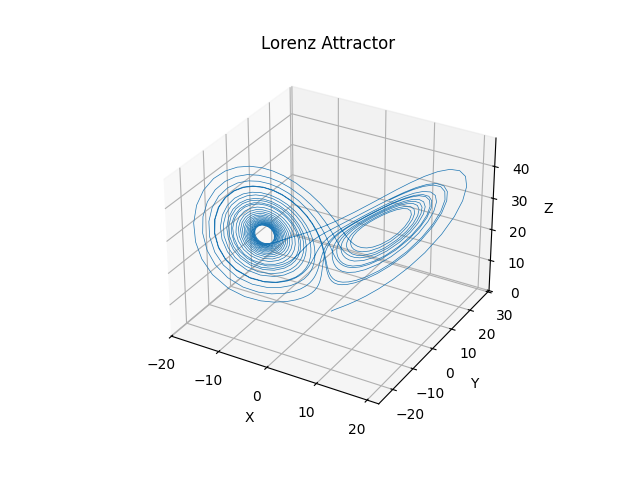
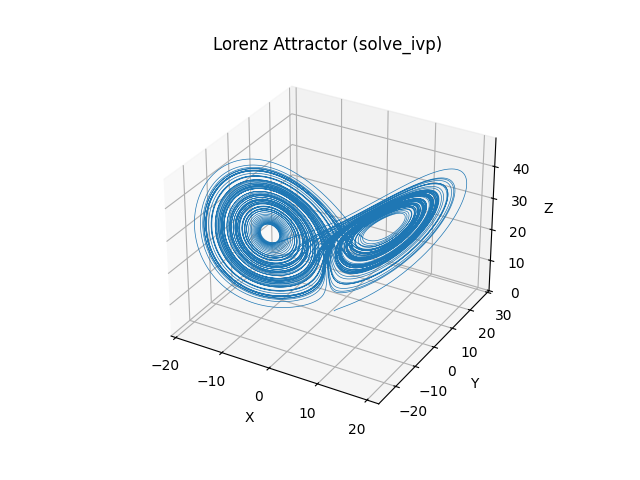
gone

diff --git a/lorenz.py b/lorenz.py
@@ -1,5 +1,6 @@
 import numpy as np
-from scipy.integrate import RK45
+from scipy.integrate import solve_ivp
+import matplotlib.pyplot as plt
 
 
 class LorenzParameters:
@@ -10,69 +11,45 @@ class LorenzParameters:
 
 
 class LorenzSystem:
-    def __init__(self, initial_state, params, dt=0.01):
+    def __init__(self, initial_state, params, dt=0.001):
         self.params = params
         self.initial_state = initial_state
         self.dt = dt
-        self.current_state = self.initial_state.copy()
-        self.current_time = 0.0
         self.state_history = []
-        self._setup_integrator()
 
-    def lorenz_equations(self, t, state, params):
+    def lorenz_equations(self, t, state):
         x, y, z = state
-        dx = params.sigma * (y - x)
-        dy = x * (params.rho - z) - y
-        dz = x * y - params.beta * z
-        return np.array([dx, dy, dz])
+        dx = self.params.sigma * (y - x)
+        dy = x * (self.params.rho - z) - y
+        dz = x * y - self.params.beta * z
+        return [dx, dy, dz]
 
-    def _setup_integrator(self):
-        self.integrator = RK45(
-            lambda t, y: self.lorenz_equations(t, y, self.params),
-            self.current_time,
-            self.current_state,
-            t_bound=float("inf"),
-            rtol=1e-6,
-            atol=1e-6,
+    def run_steps(self, t, steps):
+        t_span = (t, t + self.dt * steps)
+        t_eval = np.linspace(*t_span, steps)
+
+        solution = solve_ivp(
+            fun=self.lorenz_equations,
+            t_span=t_span,
+            y0=self.initial_state,
+            t_eval=t_eval,
+            method="RK45",
+            rtol=1e-8,
+            atol=1e-8,
         )
-
-    def step(self):
-        target_time = self.current_time + self.dt
-        while self.integrator.t < target_time:
-            self.integrator.step()
-        self.current_state = self.integrator.y
-        self.current_time = self.integrator.t
-        self.state_history.append(self.current_state.copy())
-        return self.current_state
-
-    def run_steps(self, steps):
-        self.state_history = []
-        for _ in range(steps):
-            self.step()
-        return np.array(self.state_history)
+        self.state_history = solution.y.T
+        return self.state_history
 
     def reset(self):
-        self.current_state = self.initial_state.copy()
-        self.current_time = 0.0
         self.state_history = []
-        self._setup_integrator()
 
 
-# def encrypt_message(message, key_state):
-#     key_bytes = np.abs(np.sin(key_state * 1000)).astype(np.uint8)
-#     key_bytes = np.tile(key_bytes, (len(message) // len(key_bytes)) + 1)[:len(message)]
-#     message_bytes = message.encode('utf-8') if isinstance(message, str) else message
-#     return bytearray([message_bytes[i] ^ key_bytes[i % len(key_bytes)] for i in range(len(message_bytes))])
-
-
-# p = LorenzParameters(sigma=10, rho=28, beta=8/3)
-# a = LorenzSystem(initial_state=np.array([1.0, 1.0, 1.0]), params=p, dt=0.01)
-
-
-# import matplotlib.pyplot as plt
+# # Example usage:
+# p = LorenzParameters(sigma=10, rho=28, beta=8 / 3)
+# a = LorenzSystem(initial_state=np.array([1.0, 1.0, 1.0]), params=p, dt=0.001)
 
 # # Run the Lorenz system for 1000 steps
-# steps = 1000
+# steps = 100000
 # trajectory = a.run_steps(steps)
 
 # # Extract x, y, z coordinates from the trajectory
@@ -82,9 +59,9 @@ class LorenzSystem:
 
 # # Plot the Lorenz attractor
 # fig = plt.figure()
-# ax = fig.add_subplot(111, projection='3d')
+# ax = fig.add_subplot(111, projection="3d")
 # ax.plot(x, y, z, lw=0.5)
-# ax.set_title("Lorenz Attractor")
+# ax.set_title("Lorenz Attractor (solve_ivp)")
 # ax.set_xlabel("X")
 # ax.set_ylabel("Y")
 # ax.set_zlabel("Z")

diff --git a/master.py b/master.py
@@ -15,24 +15,26 @@ BETA_RANGE = (0.1, 5)
 IC_RANGE = (-30, 30)
 
 parameters = LorenzParameters(
-    random.uniform(*SIGMA_RANGE),
-    random.uniform(*RHO_RANGE),
-    random.uniform(*BETA_RANGE),
+    round(random.uniform(*SIGMA_RANGE), 4),
+    round(random.uniform(*RHO_RANGE), 4),
+    round(random.uniform(*BETA_RANGE), 4),
 )
 
-initial_conditions = np.random.uniform(*IC_RANGE, size=3)
+initial_conditions = np.round(np.random.uniform(*IC_RANGE, size=3), 4)
+
 print(
     f"Initial conditions: {initial_conditions, parameters.sigma, parameters.rho, parameters.beta}"
 )
 lorenz_system = LorenzSystem(
-    initial_state=initial_conditions, params=parameters, dt=0.01
+    initial_state=initial_conditions, params=parameters, dt=0.001
 )
 
 
 def run_initial_trajectory(lorenz_system, steps=60):
     """Run the system for a specified number of steps"""
     print(f"Master: Running initial trajectory for {steps} steps...")
-    state_history = lorenz_system.run_steps(steps)
+    state_history = lorenz_system.run_steps(0, steps)
+    state_history = np.round(state_history, 5)  # Clip to 5 decimal places
     print(f"Master: Initial trajectory complete with {len(state_history)} states")
     return state_history
 

diff --git a/slave.py b/slave.py
@@ -30,9 +30,6 @@ def receive_and_process_states(sock, model):
 
     preds = predict(model, states)
     print(preds)
-    # response = pickle.dumps(preds)
-    # sock.sendall(len(response).to_bytes(4, byteorder="big"))
-    # sock.sendall(response)
     print("Slave: Sent processed data back to Master")
 
 
